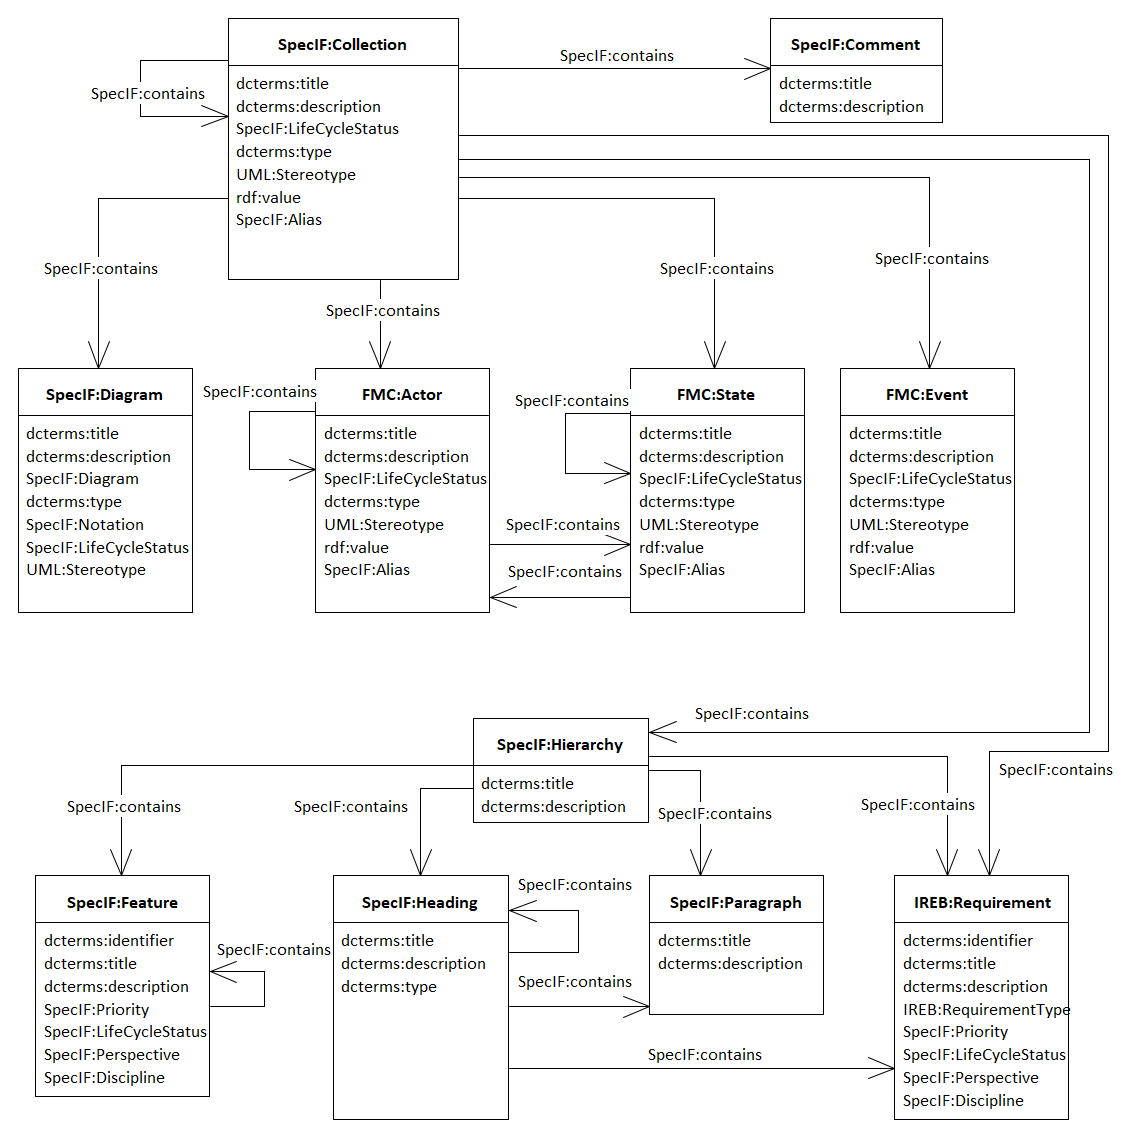
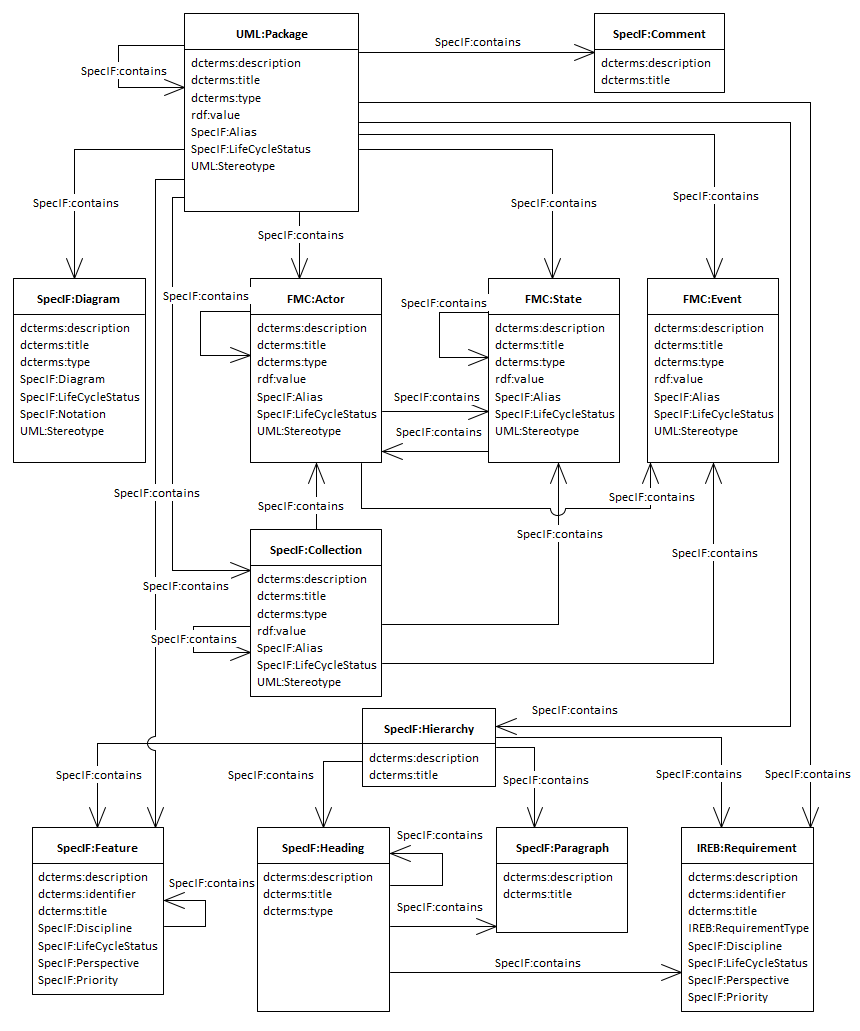
Rework of chapter Intro to model integration

diff --git a/documentation/06_Introduction_to_SpecIF_Model_Integration.md b/documentation/06_Introduction_to_SpecIF_Model_Integration.md
@@ -58,23 +58,42 @@ Such visualizations are called a view or diagram.
 SpecIF defines the resource class ▣ *Diagram* (vocabulary term SpecIF:Diagram) to represent all kinds of graphical visualizations of model data.
 All diagrams of all kinds of graphical notations can be visualized applying this resource class. 
 
+### Package
+
+Models can contain many elements and diagrams. 
+To navigate through and structure the elements used in a model the concept of Folders or Packages is often used 
+to bring a structure in a model.
+This structure is normally used independent from the semantics, that is expressed by the diagrams using model elements
+and connectors.
+The model structure is used for navigation and model data organization to sort elements or group them by some aspects.  
+
+In SpecIF the concept of packages is taken from UML and provided by the resource class 🖿 *Package* (vocabulary term UML:Package).
+Applications for package resources are packages in UML/SysML or folders/directories in a file system etc. 
+
+Because a package can contain other packages, a hierarchy structure (or 'tree') can be expressed using SpecIF.
+
 ### Collection
 
 Models can express a logical or conceptual structure of modeled aspects or the model itself by grouping elements together.
 This aspect is covered by the resource class ⬚ *Collection* (vocabulary term SpecIF:Collection).
-Examples for collections are folders in a file system, groups in BPMN or packages in UML/SysML.
+Examples for collections are groups in BPMN or boundary elements on UML diagrams.
 
-Because a collection can contain other collections, a hierarchy structure (or 'tree') can be expressed using SpecIF.
+The difference between package and collection is, that a package is used to bring structure into a model without expressing some
+semantic aspects. 
+It is just for sorting elements and helps the users of the model to find things fast and easy.
 
-### First Glimpse on the Elements of SpecIF Model Integration
+In comparison to a package a collection is typically defined as a graphical element on a diagram to express that the 
+element surrounded by the collection element are grouped together or have a similar meaning or responsibility. 
 
-![Model Integration resource and statement types](./images/ElementClasses-M0.png)
+### First glimpse on the elements of SpecIF Model Integration
+
+![Model Integration resources](./images/ModelIntegrationResources.png)
 
 The (class-)diagram above gives an overview of the most important element types, defined in SpecIF used for semantic model integration.
-This is called the *SpecIF Integration-Model*
-Beside the class elements, representing the resource classes, the association connection between the classes shows the available statements, defined
-by SpecIF statement classes. 
+This is called the *SpecIF Integration-Model*.
 
+Beside the class elements, representing the resource classes, association connections between the classes shows the available statements, defined
+by SpecIF statement classes. 
 For better readability of the class diagrams, the aspects are shown on more than one diagram. 
 You have to interpret the diagrams in combination to get the complete picture of SpecIF Model Integration.
 If two diagrams show a resource class with the same name, it is the same element and all associations defined by one diagram are also valid for the second diagram.
@@ -103,6 +122,9 @@ Typical application scenarios are to express for example that a collection *cont
 This semantic relation is obvious for a human observer of a diagram, but it gets easily queried by the machine, if there is the explicit statement.
 Not only all resources and statements (nodes and edges) of the diagram is easily listed, but also the diagrams showing a given resource or statement.
 This is known as the concept of separation of model and view.
+
+![Application of the shows statement in SpecIF](./images/Shows.png)
+
 * To express traceability-dependencies between requirement elements and requirements or other element types, the following statements are used:
   * A requirement *refines* a requirement
   * A requirement *dependsOn* a requirement
@@ -119,6 +141,10 @@ To express the behavioral aspects of a system or a process the following stateme
 * An actor *reads* a state. In a system composition a function reads a value.
 * An actor *stores* a state. This is the combination of read and write and equates to a bi-directional data or material exchange.
 * An actor *precedes* and actor. This is used typically to express that a behavior consists of a sequence of actions and/or events. 
+
+The following diagram shows the behavioral statements used in SpecIF model integration.
+
+![Behavioral aspects in SpecIF model integration statements](./images/ModelIntegration.png) 
 
 ### Instantiation
 
@@ -139,9 +165,9 @@ The following class diagram shows the SpecIF application for document structures
 
 ![Resource and statement usage for document structures](./images/RequirementDocuments.png)
 
-* The 🖿	 *Hierarchy* element is the root for a document
-* A *Heading* is used to define a heading text and to bring structure into a document
-* A *Paragraph* can be used to include some text paragraphs with no special semantics (e.g. prose text) in the document
+* The 🖹	*Hierarchy* element is the root for a document
+* A H *Heading* is used to define a heading text and to bring structure into a document
+* A P *Paragraph* can be used to include some text paragraphs with no special semantics (e.g. prose text) in the document
 * A ✶ *Feature* and
 * a ↯ *Requirement* are, as explained above, important to describe benefits and needs of a system to develop.
 
@@ -149,7 +175,7 @@ The statement *contains* is used to define the semantics for the document hierar
 
 ### Comments
 
-The SpecIF resource type *Comment* is used to include or add additional comments to a resource in a model or a document element. 
+The SpecIF resource type 🗅 *Comment* is used to include or add additional comments to a resource in a model or a document element. 
 To assign a comment to a resource the statement type *refersTo* is used. 
 Typical application scenarios for using comments are reviews (review comments) or comments attached to a resource as additional short information.
 
@@ -162,13 +188,20 @@ When generating a document, the comments can be included or omitted, similarly t
 
 As discussed, the SpecIF schema is generic and allows various applications such as model integration. 
 Each application is characterized by a set of agreed-upon data types and classes. 
-The class definitions for integration of models from different tools and notations have been developed over many years
-through projects in the arena of enterprise Architecture (notations FMC, BPMN and Archimate) and in the arena of 
-Mechatronic Systems Engineering (notations FMC and SysML).
+The class definitions described above for integration of models from different tools and notations have been 
+developed over many years through projects and case studies in the arena of enterprise Architecture 
+(notations FMC, BPMN and Archimate) and in the arena of Mechatronic Systems Engineering (notations FMC and SysML).
 
-Inspect or employ the current set of [Classes for Model-Integration](../classDefinitions/03_SpecIF-Classes-for-Model-Integration.specif), if you like.
+With the set of elements defined and released with version 1.1 of SpecIF it is possible to map nearly all elements,
+existing and used in graphical 2D models and in textual specification and documentation content over the lifecycle 
+of a system.
 
-## Mapping of different modeling environments to SpecIF
+With this first release of SpecIF there are surely some gaps for some specialized application scenarios and domains,
+but the goal of covering a bulk of artifacts existing in PLM and MBSE is still achieved.
+SpecIF will show its potential as integration and data exchange standard with more upcoming applications and practical 
+use.
+
+### Mapping of different modeling environments to SpecIF
  
 Transformations are in fact a mapping from element types of different modeling environments resp. data models to SpecIF. 
 In case of the SysML, the mapping relates SysML model-element types to SpecIF model-element types. 
@@ -176,7 +209,8 @@ The same applies to various other applications such as BPMN and Archimate.
 
 ![Principle of semantic model integration](./images/Semantic_Integration-678.png)
 
-The following chapters describe semantic mappings and examples for transformations from different modeling environments to SpecIF.
+The following chapters describe semantic mappings and examples for transformations from different modeling environments 
+to SpecIF.
 It is currently still work in progress and not yet complete. 
 The first release of SpecIF will therefore not define a fully-complete mapping for each modeling environment, 
 but still tries to define a subset for the most important elements and how to map them to SpecIF.  
